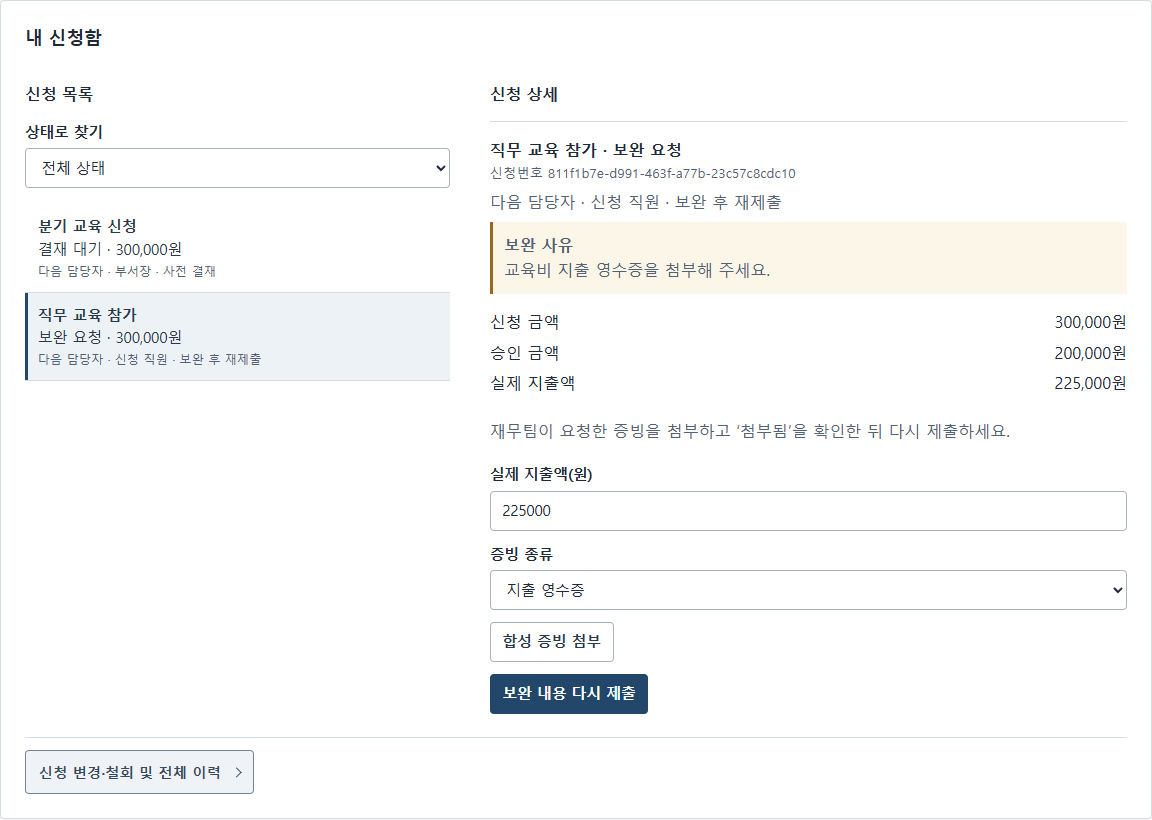
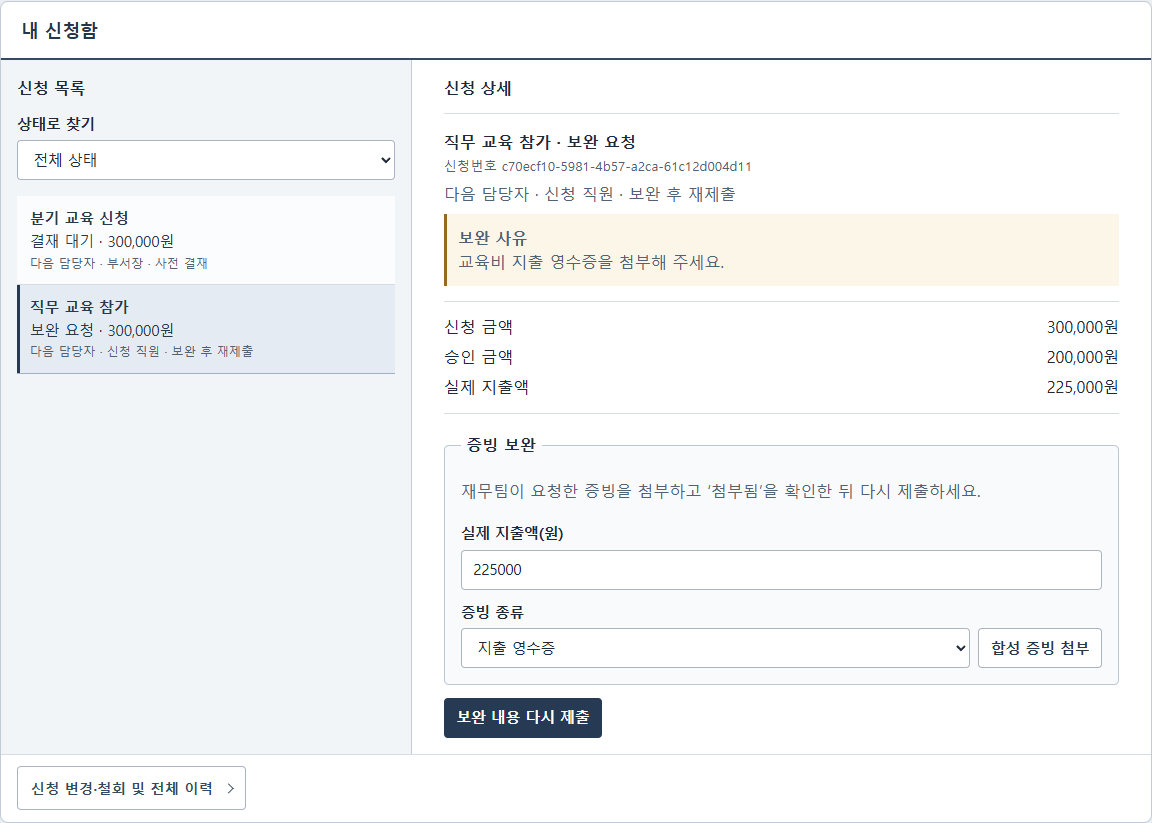
Update Workspace Screenshots and Validation

diff --git a/docs/PROGRESS.md b/docs/PROGRESS.md
@@ -320,3 +320,9 @@ React 신청함을 처음 사용한 참가자 1명이 영수증이 필요한 교
 조직·부서·역할 설정을 부서 예산 요약 위에 배치했다. 개인 장부는 지출 입력·내역과 예산 설정·예상 비용을 나누고, 저장 결과를 화면에 표시한다. 로컬 Chrome 시험 22건이 통과했고 공개 HTTPS에서 23건이 통과했다. 390px과 1280px에서 예산 500,000원과 지출 32,000원을 입력하고 잔액 468,000원 및 지출 내역을 확인했다. [변경 코드](https://github.com/kimdol/department-budget/commit/bbc6403) · [공개 시험 결과](measurements/deployment-workspace-layout.json) · [Oracle 통합 시험](https://github.com/kimdol/department-budget/actions/runs/44911498560)
 
 공개 주소의 도메인은 해석됐지만 HTTPS 연결과 SSH 배너 수신이 시간 초과됐고, 당시 콘솔에서 VM은 실행 상태였다. 일반 재부팅을 요청했고 재부팅 후 Java·HTTPS 프록시·포털 수신 서비스가 기동했다. 종료 단계에서 기본 스왑 사용량은 497MiB, 가용량은 0MiB였다. 직전 부팅의 커널 저널이 남아 있지 않아 장애 원인은 확정하지 못했다. 기존 부팅 볼륨에 1GiB 스왑을 추가한 뒤 활성 상태와 부팅 시 적용 설정을 확인했다. 재부팅·화면 배포·스왑 추가가 같은 복구 과정에서 진행되어 스왑의 단독 효과는 측정하지 않았다. 접속 장애로 중단된 참가자의 시도는 과제 완료 시간에서 제외한다.
+
+## 신청·정산 화면의 업무 구분
+
+체험 설정, 부서 예산 현황, 비용 신청, 신청함을 제목과 여백으로 구분했다. 예상 지원액은 신청 양식 안에 배치했다. 신청함은 목록과 상세의 바탕을 나누고, 영수증 종류와 첨부 버튼은 같은 구획에 두었다. 제출·승인은 남색 버튼으로 강조하고 조회·이력은 보조 버튼으로 표시한다. 공개 환경에서 390·768·1440px의 영수증 보완 흐름을 확인했다. [화면 변경](https://github.com/kimdol/department-budget/commit/9fd9b55) · [PC 신청함](images/employee-inbox.png) · [모바일 증빙 보완](images/employee-receipt-mobile.png)
+
+개인 장부를 연 직후 예산 500,000원과 지출 32,000원을 입력했을 때 잔액이 예상한 468,000원 대신 −32,000원으로 표시됐다. 최초 데이터 조회와 편집이 겹칠 수 있어 조회가 끝난 뒤 예산 입력과 저장을 활성화했다. 다른 탭의 갱신이 도착해도 작성 중인 예산은 보존한다. 지연 초기화와 탭 갱신 조건을 회귀 시험에 추가했고 공개 화면에서도 잔액 468,000원을 확인했다. 공개 Chrome 시험 24건이 통과했고 별도 부하·장애 조건이 필요한 3건은 건너뛰었다. [수정](https://github.com/kimdol/department-budget/commit/5f88f3a) · [회귀 시험](../frontend/tests/personal-ledger.spec.ts) · [배포 검증 결과](measurements/deployment-workspace-sections.json)

diff --git a/README.md b/README.md
@@ -46,7 +46,7 @@ Java 21·Spring Boot·MyBatis·Oracle이 원장을 처리한다. JSP·jQuery는 
 
 ## 브라우저 시험
 
-공개 HTTPS에서 Chrome 시험 23건을 통과했다. 직원 신청함은 390·768·1440px에서 영수증 보완 후 정산 결과까지 확인했다. 교육비 월마감, 출장 결재, 학회비 규정 발행·복구, 지점 예산 배정, 방문자·부서 격리도 점검했다. 별도 부하·장애 조건을 쓰는 3건은 이 실행에서 건너뛰었다. TLS 1.3, Secure·HttpOnly·SameSite=Lax 쿠키, 업무 응답의 no-store, 비목표의 ETag 재검증과 정적 파일 재사용을 확인했다. [직원 신청함과 정산 결과](docs/measurements/deployment-workspace-layout.json) · [공개 전송 원자료](docs/measurements/deployment-https.json) · [재현 명령](docs/HTTPS.md#java-서비스-설치와-중지)
+공개 HTTPS에서 Chrome 시험 24건을 통과했다. 직원 신청함은 390·768·1440px에서 영수증 보완 후 정산 결과까지 확인했다. 교육비 월마감, 출장 결재, 학회비 규정 발행·복구, 지점 예산 배정, 방문자·부서 격리도 점검했다. 별도 부하·장애 조건을 쓰는 3건은 이 실행에서 건너뛰었다. TLS 1.3, Secure·HttpOnly·SameSite=Lax 쿠키, 업무 응답의 no-store, 비목표의 ETag 재검증과 정적 파일 재사용을 확인했다. [직원 신청함과 정산 결과](docs/measurements/deployment-workspace-sections.json) · [공개 전송 원자료](docs/measurements/deployment-https.json) · [재현 명령](docs/HTTPS.md#java-서비스-설치와-중지)
 
 첫 방문 시 접수 결과와 실제 지출액 입력칸을 찾기 어려웠다. 폼에 접수 상태를 표시하고 정산 입력과 첨부·신청 버튼을 한 영역에 배치했다. 모바일 크기의 Chrome에서 영수증이 없는 정산을 차단한 뒤, 보완 요청과 재제출을 거쳐 180,000원을 정산하는 흐름을 확인했다. [배포 전후 원자료](docs/measurements/deployment-claim-ux.json)
 
